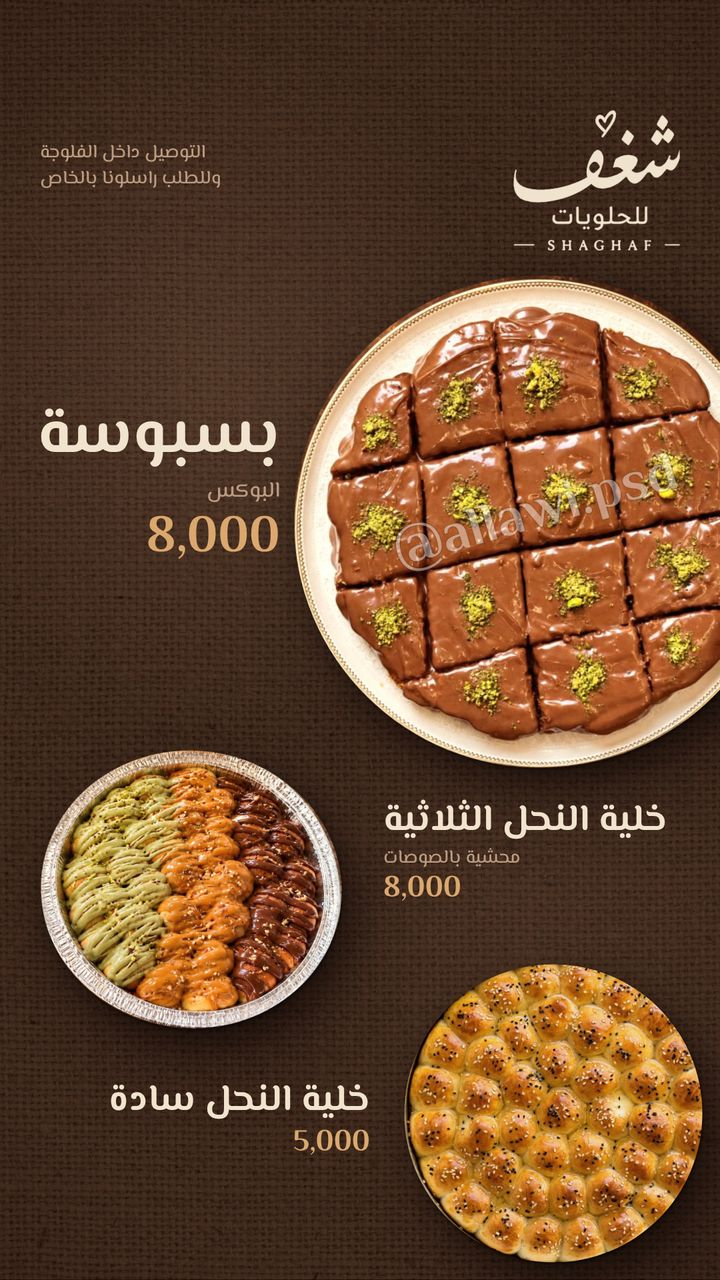
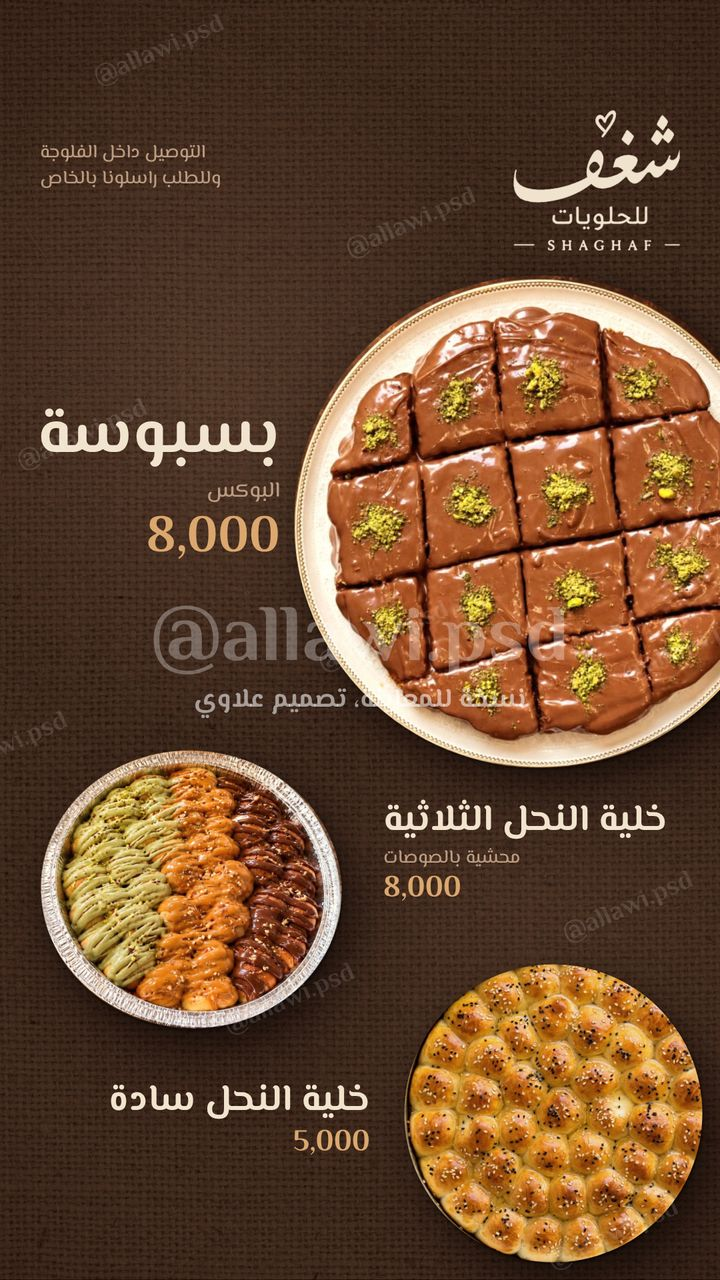
Shaghaf menu previews: middle mark with a few faint ones behind

diff --git a/marketing/shaghaf-menu/menu.html b/marketing/shaghaf-menu/menu.html
@@ -107,13 +107,17 @@ function note([x, y, align]) {
 
 const PREVIEW = location.search.includes('preview');
 
-// one mark across the lead photo of each story: cropping it out means cropping the dessert
-const MARK = { 'story-1': [810, 790], 'story-2': [735, 720], 'story-3': [540, 1050] };
+// preview mark: a large one in the middle, a few faint small ones behind, spaced loosely and not in a strict grid
+const SMALL = [[-60, 120], [520, 40], [180, 520], [760, 430], [-120, 900], [470, 980], [880, 1180], [120, 1420],
+  [640, 1500], [-40, 1880], [420, 1940], [900, 1760]];
 
-function mark([x, y]) {
-  return `<svg class="mark" viewBox="0 0 1080 1920"><text x="${x}" y="${y}" transform="rotate(-16 ${x} ${y})"
-    text-anchor="middle" font-family="El Messiri" font-weight="700" font-size="84" fill="#fff" fill-opacity=".42"
-    style="paint-order:stroke" stroke="rgba(40,20,10,.25)" stroke-width="2">@allawi.psd</text></svg>`;
+function mark() {
+  const small = SMALL.map(([x, y]) => `<text x="${x}" y="${y}">@allawi.psd</text>`).join('');
+  return `<svg class="mark" viewBox="0 0 1080 1920">
+    <g transform="rotate(-24 540 960)" fill="#fff" fill-opacity=".13" font-family="El Messiri" font-weight="700" font-size="40">${small}</g>
+    <g font-family="El Messiri" font-weight="700" text-anchor="middle" fill="#fff">
+      <text x="540" y="990" font-size="120" fill-opacity=".3">@allawi.psd</text>
+      <text x="540" y="1060" font-size="40" fill-opacity=".55" style="direction:rtl;unicode-bidi:embed">نسخة للمعاينة، تصميم علاوي</text></g></svg>`;
 }
 
 let html = '';
@@ -125,7 +129,7 @@ Object.entries(STORIES).forEach(([id, st], k) => {
       <div class="p" style="font-size:72px">3,000<small>للعلبة</small></div></div>` : ''}
     ${st.t.map(txt).join('')}
     ${note(st.note)}
-    ${grain(k + 4)}${PREVIEW ? mark(MARK[id]) : ''}</div>`;
+    ${grain(k + 4)}${PREVIEW ? mark() : ''}</div>`;
 });
 document.getElementById('frames').innerHTML = html;
 Promise.all([document.fonts.ready, ...[...document.images].map((im) => im.decode())]).then(() => { document.body.dataset.ready = '1'; });

diff --git a/CLAUDE.md b/CLAUDE.md
@@ -101,9 +101,9 @@ everything for Instagram (posts, reels, briefs, sound and transition packs) is i
   Sound for this style (25 Oct): Apple-like UI sound from his two Drive packs, not the low air whooshes and thuds: the
   Apple keyboard click on presses, soft pops on cards, an airy swish on whips, faint ticks on counters, a clean riser,
   one chime for a win (`marketing/iraq-speed-reel/v7/mix.py`). This replaces the 24 Oct "no clicks" rule for such reels.
-- Client previews before payment (29 Oct): send smaller copies (720 px wide JPG) with one @allawi.psd mark laid across
-  the lead photo of each piece; the clean files go after the money. A mark tiled over everything looked like stock
-  watermarks and less like his own work (`marketing/shaghaf-menu`, `node render.cjs` writes both).
+- Client previews before payment (29 Oct): send smaller copies (720 px wide JPG) with a large @allawi.psd in the middle,
+  «نسخة للمعاينة، تصميم علاوي» under it and about a dozen faint small marks behind, loosely placed; the clean files go
+  after the money. A dense tiled mark was too much, one mark alone too little (`marketing/shaghaf-menu`, `node render.cjs`).
 - كاكتوس (`marketing/gift-cactus`) is a small project by a girl who crochets by hand, not a shop: never call it محل.
 - Before making props or images, ask whether to use AI image elements (the user generates them) or 3D (Blender);
   3D renders cost a lot of usage (20 Oct).
